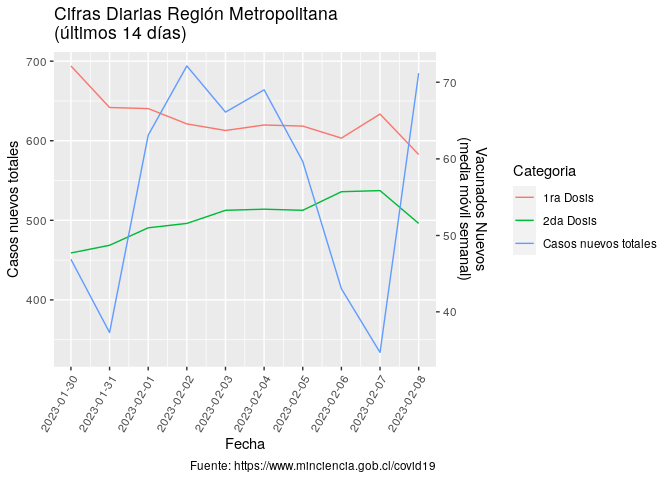
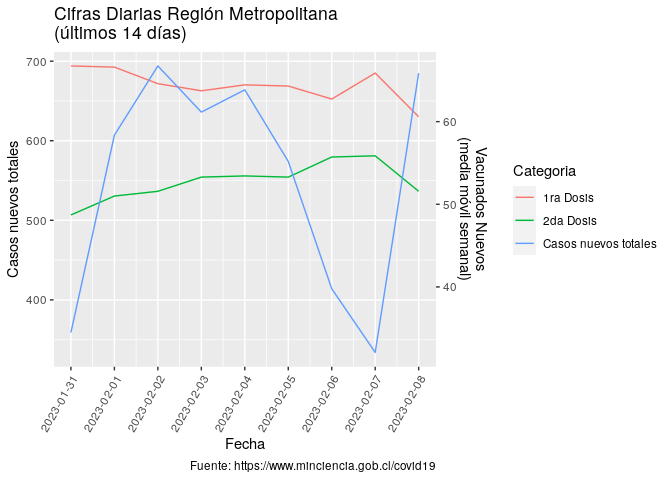
Re-build Rmarkdown files

diff --git a/README.md b/README.md
@@ -3,7 +3,7 @@
 
 Ejemplo de uso de total\_casos de COVID recopilados por el Ministerio de
 Ciencia de Chile <https://www.minciencia.gob.cl/covid19>. Última
-actualización: 2023-02-12
+actualización: 2023-02-13
 
 ## Visualización desde el comienzo de la pandemia
 
